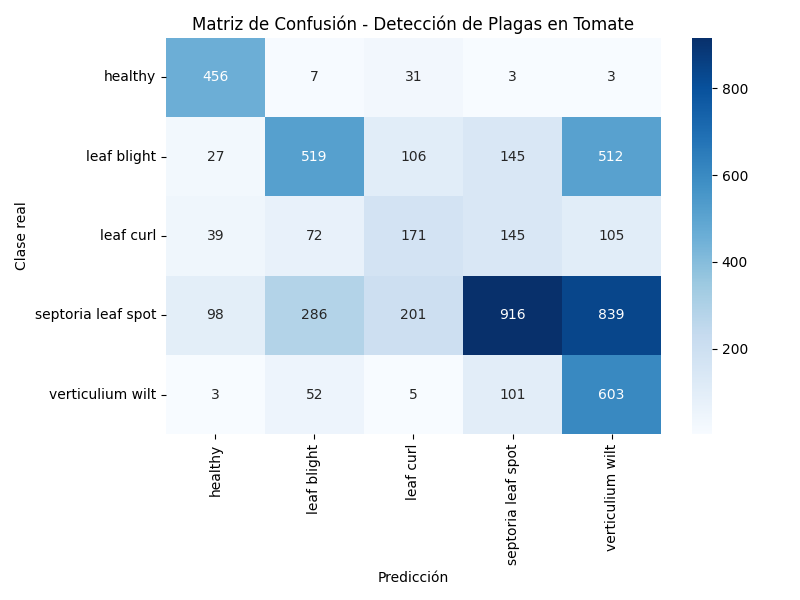
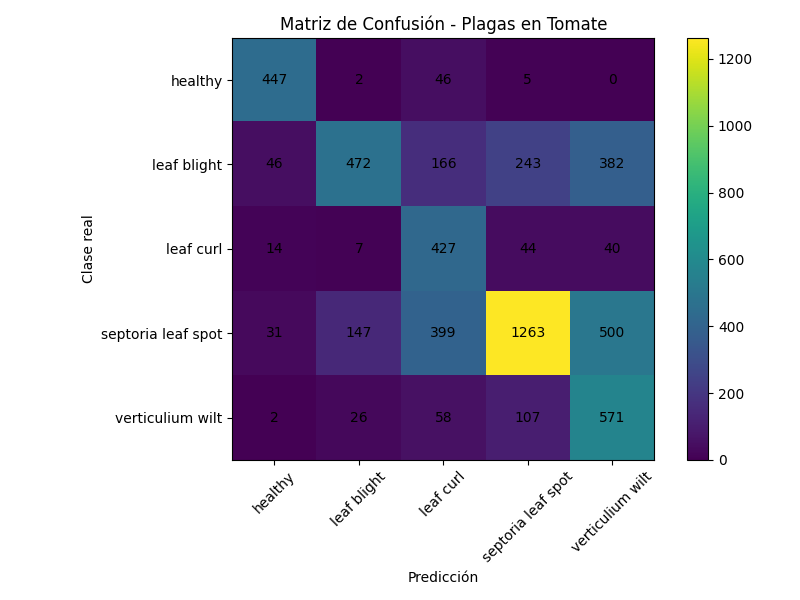
Implemenatacion y Evaluación del modelo MobileNetV2 con métricas y matriz de confusión
se utiliza un nuevo modelo como el mobileNetV2, ya que el modelo cnn es muy lento

diff --git a/src/train_mobilenetv2_tomate.py b/src/train_mobilenetv2_tomate.py
@@ -1,16 +1,16 @@
 # =========================================
-# Entrenamiento del modelo de detección de plagas
-# Cultivo: Tomate
+# Entrenamiento con Transfer Learning
+# MobileNetV2 - Detección de Plagas en Tomate
 # =========================================
 
 import tensorflow as tf
 from tensorflow.keras.preprocessing.image import ImageDataGenerator
 from tensorflow.keras.models import Sequential
-from tensorflow.keras.layers import (
-    Conv2D, MaxPooling2D, Flatten,
-    Dense, Dropout, BatchNormalization
-)
+from tensorflow.keras.layers import Dense, Dropout, GlobalAveragePooling2D
 from tensorflow.keras.optimizers import Adam
+from tensorflow.keras.callbacks import EarlyStopping, ReduceLROnPlateau, ModelCheckpoint
+from tensorflow.keras.applications import MobileNetV2
+from tensorflow.keras.applications.mobilenet_v2 import preprocess_input
 from sklearn.utils.class_weight import compute_class_weight
 import numpy as np
 
@@ -25,28 +25,27 @@ ruta_prueba = "../dataset/tomato/test_set"
 # -----------------------------------------
 TAMANO_IMAGEN = (224, 224)
 TAMANO_LOTE = 32
-CANALES = 3
 NUMERO_CLASES = 5
 EPOCHS = 20
 
-print("Cargando dataset de entrenamiento y prueba...")
+print("Configurando generadores de imágenes...")
 
 # -----------------------------------------
-# Generadores de imágenes
+# Generadores con preprocess_input
 # -----------------------------------------
 generador_entrenamiento = ImageDataGenerator(
-    rescale=1.0 / 255,
-    rotation_range=20,
+    preprocessing_function=preprocess_input,
+    rotation_range=30,
     width_shift_range=0.2,
     height_shift_range=0.2,
-    shear_range=0.15,
-    zoom_range=0.15,
+    shear_range=0.2,
+    zoom_range=0.2,
     horizontal_flip=True,
     fill_mode="nearest"
 )
 
 generador_prueba = ImageDataGenerator(
-    rescale=1.0 / 255
+    preprocessing_function=preprocess_input
 )
 
 # -----------------------------------------
@@ -72,80 +71,86 @@ print("Clases detectadas:")
 print(datos_entrenamiento.class_indices)
 
 # -----------------------------------------
-# Cálculo de pesos por clase
+# Pesos por clase (balanceo)
 # -----------------------------------------
-clases_entrenamiento = datos_entrenamiento.classes
+clases = datos_entrenamiento.classes
 
 pesos_clase = compute_class_weight(
     class_weight="balanced",
-    classes=np.unique(clases_entrenamiento),
-    y=clases_entrenamiento
+    classes=np.unique(clases),
+    y=clases
 )
 
 pesos_clase_dict = dict(enumerate(pesos_clase))
-
-print("Pesos por clase calculados:")
-for clase, peso in pesos_clase_dict.items():
-    print(f"Clase {clase}: peso {peso:.3f}")
+print("Pesos por clase:", pesos_clase_dict)
 
 # -----------------------------------------
-# Construcción del modelo CNN
+# Construcción del modelo MobileNetV2
 # -----------------------------------------
-print("Construyendo el modelo CNN...")
+print("Cargando MobileNetV2 preentrenada...")
 
-modelo = Sequential()
+base_model = MobileNetV2(
+    weights="imagenet",
+    include_top=False,
+    input_shape=(224, 224, 3)
+)
 
-# Bloque convolucional 1
-modelo.add(Conv2D(32, (3, 3), activation="relu",
-                  input_shape=(TAMANO_IMAGEN[0], TAMANO_IMAGEN[1], CANALES)))
-modelo.add(BatchNormalization())
-modelo.add(MaxPooling2D(2, 2))
+# Congelamos la base
+base_model.trainable = False
 
-# Bloque convolucional 2
-modelo.add(Conv2D(64, (3, 3), activation="relu"))
-modelo.add(BatchNormalization())
-modelo.add(MaxPooling2D(2, 2))
+modelo = Sequential([
+    base_model,
+    GlobalAveragePooling2D(),
+    Dense(128, activation="relu"),
+    Dropout(0.5),
+    Dense(NUMERO_CLASES, activation="softmax")
+])
 
-# Bloque convolucional 3
-modelo.add(Conv2D(128, (3, 3), activation="relu"))
-modelo.add(BatchNormalization())
-modelo.add(MaxPooling2D(2, 2))
-
-# Bloque convolucional 4
-modelo.add(Conv2D(256, (3, 3), activation="relu"))
-modelo.add(BatchNormalization())
-modelo.add(MaxPooling2D(2, 2))
-
-# Aplanado
-modelo.add(Flatten())
-
-# Capas densas
-modelo.add(Dense(256, activation="relu"))
-modelo.add(Dropout(0.5))
-
-modelo.add(Dense(128, activation="relu"))
-modelo.add(Dropout(0.5))
-
-# Capa de salida
-modelo.add(Dense(NUMERO_CLASES, activation="softmax"))
-
-print("Modelo CNN construido correctamente.")
+print("Modelo construido correctamente.")
 
 # -----------------------------------------
-# Compilación del modelo
+# Compilación
 # -----------------------------------------
 modelo.compile(
-    optimizer=Adam(learning_rate=0.0001),
+    optimizer=Adam(learning_rate=0.001),
     loss="categorical_crossentropy",
     metrics=["accuracy"]
 )
 
-print("Modelo compilado correctamente.")
+print("Modelo compilado.")
 
 # -----------------------------------------
-# Entrenamiento del modelo
+# Callbacks
 # -----------------------------------------
-print("Iniciando entrenamiento del modelo...")
+checkpoint = ModelCheckpoint(
+    "mejor_modelo_tomate.keras",
+    monitor="val_accuracy",
+    save_best_only=True,
+    mode="max",
+    verbose=1
+)
+
+reduce_lr = ReduceLROnPlateau(
+    monitor="val_loss",
+    factor=0.2,
+    patience=3,
+    min_lr=0.00001,
+    verbose=1
+)
+
+early_stop = EarlyStopping(
+    monitor="val_loss",
+    patience=5,
+    restore_best_weights=True,
+    verbose=1
+)
+
+callbacks = [checkpoint, reduce_lr, early_stop]
+
+# -----------------------------------------
+# Entrenamiento
+# -----------------------------------------
+print("Iniciando entrenamiento...")
 
 historial = modelo.fit(
     datos_entrenamiento,
@@ -153,15 +158,14 @@ historial = modelo.fit(
     epochs=EPOCHS,
     validation_data=datos_prueba,
     validation_steps=datos_prueba.samples // TAMANO_LOTE,
-    class_weight=pesos_clase_dict
+    class_weight=pesos_clase_dict,
+    callbacks=callbacks
 )
 
 print("Entrenamiento finalizado.")
 
 # -----------------------------------------
-# Guardar modelo
+# Guardar modelo final
 # -----------------------------------------
-modelo_guardado = "modelo_tomate_plagas.h5"
-modelo.save(modelo_guardado)
-
-print(f"Modelo guardado en: {modelo_guardado}")
+modelo.save("modelo_mobilenetv2_tomate_plagas.h5")
+print("Modelo guardado correctamente.")

diff --git a/src/evaluate_model.py b/src/evaluate_model.py
@@ -1,21 +1,20 @@
 # =========================================
-# Evaluación del modelo de detección de plagas
-# Cultivo: Tomate
+# Evaluación del modelo - MobileNetV2
+# Detección de Plagas en Tomate
 # =========================================
 
 import tensorflow as tf
 from tensorflow.keras.preprocessing.image import ImageDataGenerator
+from tensorflow.keras.applications.mobilenet_v2 import preprocess_input
 from sklearn.metrics import classification_report, confusion_matrix
 import matplotlib.pyplot as plt
-import seaborn as sns
 import numpy as np
-import os
 
 # -----------------------------------------
 # Rutas
 # -----------------------------------------
 ruta_prueba = "../dataset/tomato/test_set"
-ruta_modelo = "modelo_tomate_plagas.h5"
+ruta_modelo = "modelo_mobilenetv2_tomate_plagas.h5"
 
 # -----------------------------------------
 # Parámetros
@@ -24,39 +23,38 @@ TAMANO_IMAGEN = (224, 224)
 TAMANO_LOTE = 32
 
 # -----------------------------------------
-# Cargar modelo entrenado
+# Cargar modelo
 # -----------------------------------------
 print("Cargando modelo entrenado...")
 modelo = tf.keras.models.load_model(ruta_modelo)
 print("Modelo cargado correctamente.")
 
 # -----------------------------------------
-# Cargar dataset de prueba
+# Generador de prueba (MobileNetV2)
 # -----------------------------------------
 print("Cargando dataset de prueba...")
 
-generador_prueba = ImageDataGenerator(rescale=1.0 / 255)
+generador_prueba = ImageDataGenerator(
+    preprocessing_function=preprocess_input
+)
 
 datos_prueba = generador_prueba.flow_from_directory(
     ruta_prueba,
     target_size=TAMANO_IMAGEN,
     batch_size=TAMANO_LOTE,
     class_mode="categorical",
-    shuffle=False  # IMPORTANTE para evaluación correcta
+    shuffle=False
 )
 
 # -----------------------------------------
-# Realizar predicciones
+# Predicciones
 # -----------------------------------------
 print("Realizando predicciones...")
 
 predicciones_prob = modelo.predict(datos_prueba)
 predicciones = np.argmax(predicciones_prob, axis=1)
 
-# Etiquetas reales
 etiquetas_reales = datos_prueba.classes
-
-# Nombres de clases
 nombres_clases = list(datos_prueba.class_indices.keys())
 
 # -----------------------------------------
@@ -68,17 +66,21 @@ print("Matriz de confusión:")
 print(matriz)
 
 plt.figure(figsize=(8, 6))
-sns.heatmap(
-    matriz,
-    annot=True,
-    fmt="d",
-    cmap="Blues",
-    xticklabels=nombres_clases,
-    yticklabels=nombres_clases
-)
+plt.imshow(matriz, interpolation="nearest")
+plt.title("Matriz de Confusión - Plagas en Tomate")
+plt.colorbar()
+
+ticks = np.arange(len(nombres_clases))
+plt.xticks(ticks, nombres_clases, rotation=45)
+plt.yticks(ticks, nombres_clases)
+
 plt.xlabel("Predicción")
 plt.ylabel("Clase real")
-plt.title("Matriz de Confusión - Detección de Plagas en Tomate")
+
+for i in range(matriz.shape[0]):
+    for j in range(matriz.shape[1]):
+        plt.text(j, i, matriz[i, j], ha="center", va="center")
+
 plt.tight_layout()
 plt.savefig("matriz_confusion.png")
 plt.show()
@@ -95,9 +97,9 @@ reporte = classification_report(
 print("\nReporte de clasificación:")
 print(reporte)
 
-with open("reporte_clasificacion.txt", "w", encoding="utf-8") as archivo:
-    archivo.write(reporte)
+with open("reporte_clasificacion.txt", "w", encoding="utf-8") as f:
+    f.write(reporte)
 
-print("Reporte guardado en 'reporte_clasificacion.txt'")
-print("Matriz de confusión guardada en 'matriz_confusion.png'")
 print("Evaluación finalizada correctamente.")
+print("✔ matriz_confusion.png generada")
+print("✔ reporte_clasificacion.txt generado")
